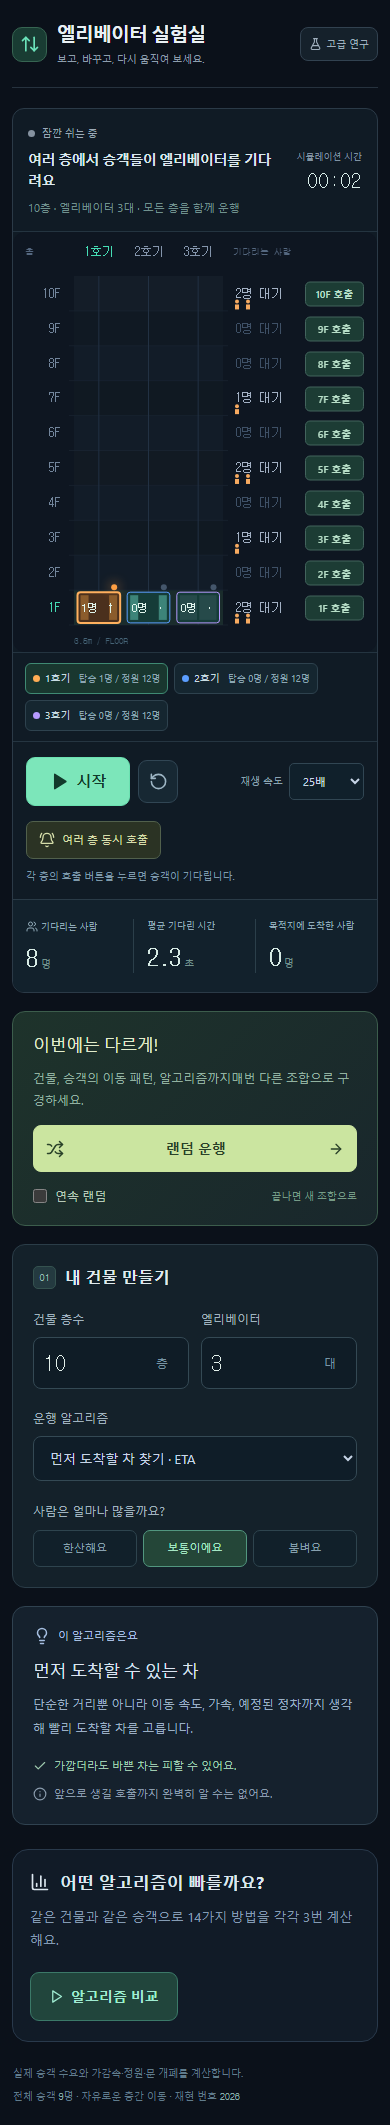
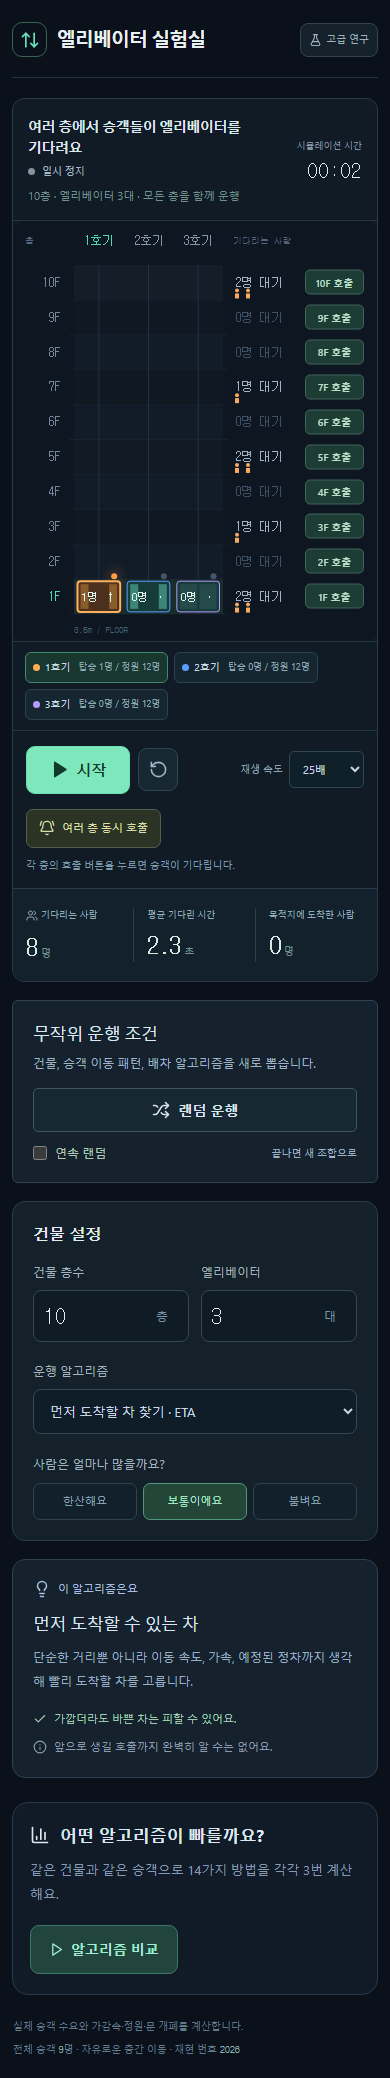
Refine the basic elevator simulator screen

diff --git a/src/styles.css b/src/styles.css
@@ -1413,9 +1413,9 @@ footer {
   display: flex;
   align-items: center;
   justify-content: space-between;
-  padding: 28px 0 26px;
+  padding: 20px 0;
   border-bottom: 1px solid #26323e;
-  margin-bottom: 26px;
+  margin-bottom: 22px;
   gap: 16px;
 }
 .simple-brand {
@@ -1424,11 +1424,10 @@ footer {
   align-items: center;
 }
 .simple-brand > span {
-  width: 48px;
-  height: 48px;
-  background: #193c33;
+  width: 38px;
+  height: 38px;
   border: 1px solid #376552;
-  border-radius: 15px;
+  border-radius: 5px;
   display: grid;
   place-items: center;
   color: #6be3ba;
@@ -1438,11 +1437,6 @@ footer {
   font-weight: 700;
   letter-spacing: -1px;
   color: #e9f0f4;
-  margin-bottom: 5px;
-}
-.simple-brand p {
-  font-size: 13px;
-  color: #8e9eac;
 }
 .simple-advanced {
   display: flex;
@@ -1484,8 +1478,8 @@ footer {
   display: flex;
   gap: 7px;
   align-items: center;
-  color: #9baab6;
-  margin-bottom: 8px;
+  color: #a9b9c4;
+  margin-top: 6px;
 }
 .simple-live i {
   width: 7px;
@@ -1498,7 +1492,6 @@ footer {
 }
 .simple-live.active i {
   background: #62dfad;
-  box-shadow: 0 0 10px #62dfad40;
 }
 .simple-app .simple-scene-header h2 {
   font-size: 18px;
@@ -1506,6 +1499,7 @@ footer {
   font-weight: 600;
   letter-spacing: -0.5px;
   line-height: 1.5;
+  word-break: keep-all;
 }
 .simple-clock {
   text-align: right;
@@ -1716,26 +1710,8 @@ footer {
   border-radius: 13px;
   padding: 21px;
 }
-.simple-section-title {
-  display: flex;
-  gap: 9px;
-  align-items: center;
-  margin-bottom: 21px;
-}
-.simple-section-title > span {
-  display: grid;
-  place-items: center;
-  background: #243a40;
-  color: #95beb2;
-  border: 1px solid #35524f;
-  border-radius: 5px;
-  font:
-    10px ui-monospace,
-    monospace;
-  width: 23px;
-  height: 23px;
-}
-.simple-app .simple-section-title h2 {
+.simple-app .simple-section-title {
+  margin-bottom: 17px;
   font-size: 16px;
   font-weight: 650;
   color: #e0ecee;
@@ -1817,49 +1793,41 @@ footer {
   color: #a5e6c4;
 }
 .simple-random {
-  background: linear-gradient(135deg, #1e332b, #19272c);
-  border: 1px solid #3c5d4c;
-  border-radius: 13px;
+  background: #15212d;
+  border: 1px solid #304250;
+  border-radius: 6px;
   padding: 21px;
 }
-.simple-random-icon {
-  color: #bcdb8e;
-  margin-bottom: 10px;
-}
 .simple-app .simple-random h2 {
-  font-size: 18px;
-  color: #e1eccc;
-  margin-bottom: 9px;
+  font-size: 16px;
+  color: #dce8ee;
+  margin-bottom: 6px;
   letter-spacing: -0.4px;
 }
 .simple-random p {
   font-size: 12px;
+  word-break: keep-all;
   line-height: 1.85;
-  color: #92b1a0;
+  color: #9fb3c4;
 }
 .simple-random-button {
   display: flex;
   align-items: center;
   justify-content: center;
   gap: 9px;
-  background: #cbe5a0;
-  border: 1px solid #cbe5a0;
-  border-radius: 8px;
+  background: #172833;
+  border: 1px solid #415665;
+  border-radius: 5px;
   width: 100%;
-  padding: 12px;
-  color: #2a4229;
+  min-height: 44px;
+  padding: 9px 12px;
+  color: #d7e6ef;
   font-weight: 700;
   font-size: 14px;
-  margin: 18px 0 15px;
-}
-.simple-random-button > svg:last-child {
-  margin-left: auto;
-}
-.simple-random-button > svg:first-child {
-  margin-right: auto;
+  margin: 12px 0;
 }
 .simple-random-button:hover {
-  background: #dbedbd;
+  background: #263b49;
 }
 .simple-repeat {
   display: flex;
@@ -1873,11 +1841,11 @@ footer {
   width: 14px;
   height: 14px;
   margin: 0;
-  accent-color: #b4d788;
+  accent-color: var(--green);
 }
 .simple-repeat small {
   font-size: 10px;
-  color: #769b86;
+  color: #9fb3c4;
   margin-left: auto;
 }
 .simple-explanation {
@@ -2042,13 +2010,9 @@ footer {
   .simple-app .simple-brand h1 {
     font-size: 22px;
   }
-  .simple-brand p {
-    font-size: 11px;
-  }
   .simple-brand > span {
     width: 42px;
     height: 42px;
-    border-radius: 12px;
   }
   .simple-advanced {
     font-size: 11px;
@@ -2115,9 +2079,6 @@ footer {
   }
   .simple-app .simple-brand h1 {
     font-size: 19px;
-  }
-  .simple-brand p {
-    font-size: 10px;
   }
   .simple-brand > span {
     width: 35px;

diff --git a/src/App.tsx b/src/App.tsx
@@ -8,7 +8,6 @@ import {
   Play,
   RotateCcw,
   Shuffle,
-  Sparkles,
   Users,
   BellRing,
 } from 'lucide-react';
@@ -191,7 +190,6 @@ export default function App() {
           </span>
           <div>
             <h1>엘리베이터 실험실</h1>
-            <p>보고, 바꾸고, 다시 움직여 보세요.</p>
           </div>
         </div>
         <button
@@ -210,6 +208,7 @@ export default function App() {
         <section className="simple-scene">
           <div className="simple-scene-header">
             <div>
+              <h2>{label}</h2>
               <span className={'simple-live ' + (running ? 'active' : '')}>
                 <i />
                 {running
@@ -218,9 +217,8 @@ export default function App() {
                     ? (metrics?.unfinished ?? 0) > 0
                       ? '관찰 종료'
                       : '운행 완료'
-                    : '잠깐 쉬는 중'}
+                    : '일시 정지'}
               </span>
-              <h2>{label}</h2>
               <p className="simple-scene-note">
                 {config.floors}층 · 엘리베이터 {config.cars}대 ·{' '}
                 {
@@ -395,10 +393,7 @@ export default function App() {
         </section>
         <aside className="simple-sidebar">
           <section className="simple-settings">
-            <div className="simple-section-title">
-              <span>01</span>
-              <h2>내 건물 만들기</h2>
-            </div>
+            <h2 className="simple-section-title">건물 설정</h2>
             <div className="simple-number-pair">
               <label>
                 건물 층수
@@ -479,19 +474,11 @@ export default function App() {
             </div>
           </section>
           <section className="simple-random">
-            <div className="simple-random-icon">
-              <Sparkles size={21} />
-            </div>
-            <h2>이번에는 다르게!</h2>
-            <p>
-              건물, 승객의 이동 패턴, 알고리즘까지
-              <br />
-              매번 다른 조합으로 구경하세요.
-            </p>
+            <h2>무작위 운행 조건</h2>
+            <p>건물, 승객 이동 패턴, 배차 알고리즘을 새로 뽑습니다.</p>
             <button className="simple-random-button" onClick={anotherRandom}>
               <Shuffle size={18} />
               랜덤 운행
-              <ArrowRight size={16} />
             </button>
             <label className="simple-repeat">
               <input
